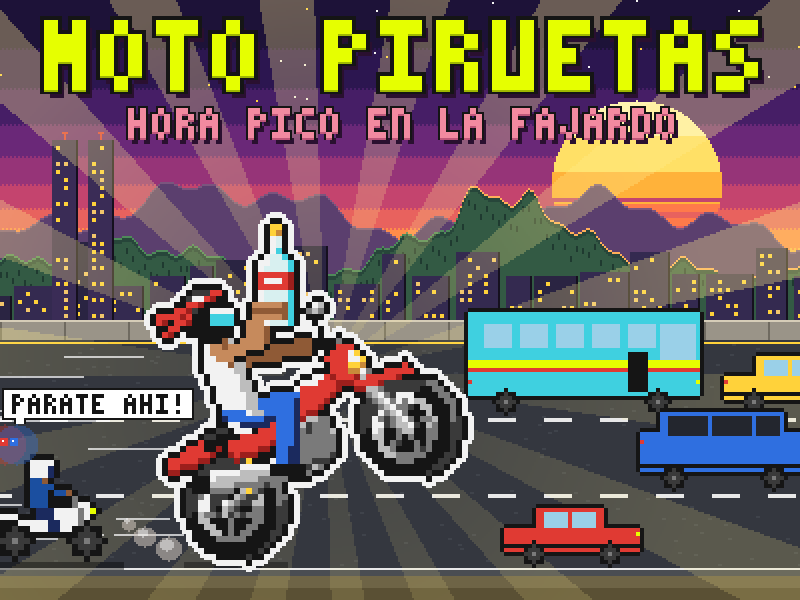
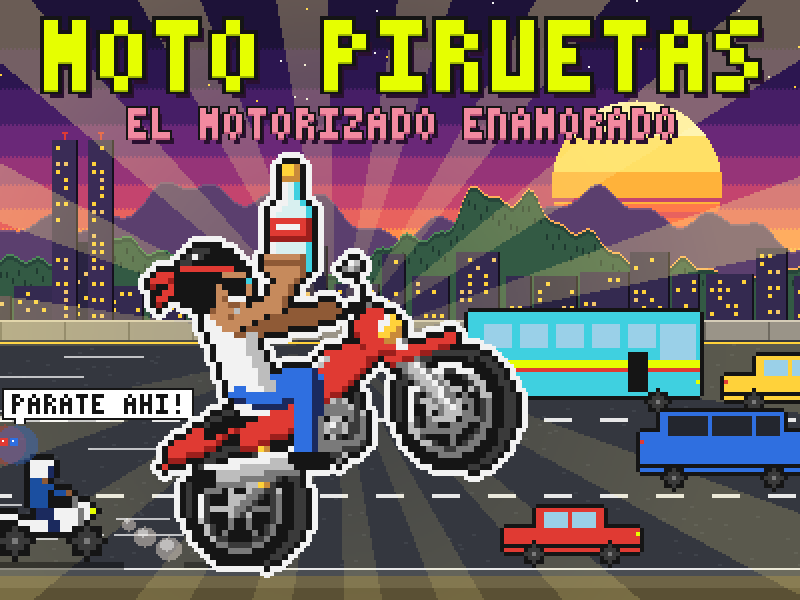
feat(title): rename the subtitle to EL MOTORIZADO ENAMORADO
HORA PICO EN LA FAJARDO no longer fit the night story. The new
subtitle is on the title screen, in the cover, and in the metadata name
(Moto Piruetas: El Motorizado Enamorado).

The cover generator hard-coded the old 55x58 hero height, so the
re-authored 63x69 hero had its rear wheel cut off. The placement now
comes from the sprite's real size.

Tests: node tests/title.test.cjs (32/32); cover 800x600, 62 KB, valid

diff --git a/game.js b/game.js
@@ -1,4 +1,4 @@
-/* Moto Piruetas: hora pico en la Fajardo.
+/* Moto Piruetas: el motorizado enamorado.
    Platanus Hack 26 Caracas. Todo dibujado y sonado con codigo.
    Phaser 3 maneja el loop, la escala y el audio; el juego se pinta en un
    CanvasTexture de 320x240 que se escala x2.5 con pixelArt. */
@@ -748,7 +748,7 @@ function drawTitle() {
   bgBlue();
   F('#e6ff00'); Q(0, 6, W, 30); F('#9fb800'); Q(0, 36, W, 2);
   txt('MOTOPIRUETAS', 160, 11, '#151515', 4, 'c', null);
-  txt('HORA PICO EN LA FAJARDO', 160, 42, '#eaf6ff', 2, 'c');
+  txt('EL MOTORIZADO ENAMORADO', 160, 42, '#eaf6ff', 2, 'c');
   /* rayos fijos detras del heroe centrado a 2x: tonos brillantes del amarillo lima del titulo (#e6ff00): mas claro, puro y apenas mas oscuro, que giran (y hacia las puntas), con borde blanco de calcomania */
   for (let i = 0; i < 16; i++) { for (let r = 4; r < 70; r += 2) { const a = i * .3927, k = (1 + Math.cos(a - MT * 1.5)) / 4 + r / 140, s = 1 + r / 9 | 0, u = RO(160 + Math.cos(a) * r), v = RO(127 + SN(a) * r), x = MXX(84, u), y = MXX(56, v), w = MN(236, u + s) - x, h = MN(198, v + s) - y; if (w > 0 && h > 0) { const lt = MXX(0, .5 - k), dk = 1 - MXX(0, k - .5) * .24; F('rgb(' + RO((230 + 25 * lt) * dk) + ',' + RO(255 * dk) + ',' + RO(255 * lt * dk) + ')'); Q(x, y, w, h); } } }
   for (let i = 0; i < 4; i++) X.drawImage(HSIL, 97 + (i - 1) % 2 * 2, 58 + (i - 2) % 2 * 2, HW * 2, HH * 2);

diff --git a/LEEME.md b/LEEME.md
@@ -1,4 +1,4 @@
-# Moto Piruetas: Hora Pico en la Fajardo
+# Moto Piruetas: El Motorizado Enamorado
 
 Juego para el Arcade Challenge de Platanus Hack 26 Caracas. Un jugador, Phaser 3, todo dibujado y sonado con código.
 
